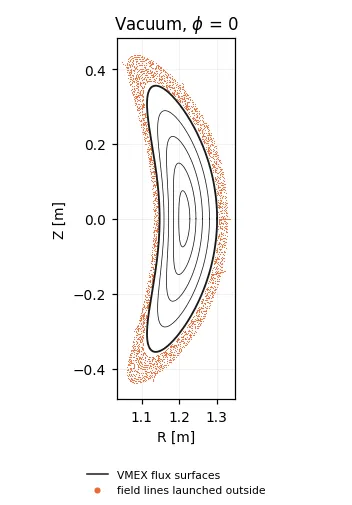
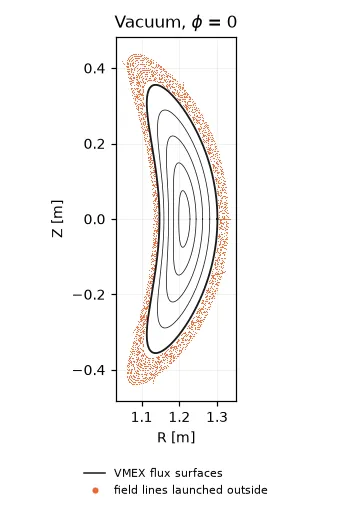
README extender figure: iota = 1/2 island chain outside a current-carrying QA (#505)
Adds a 1.02%-beta free-boundary Landreman-Paul QA case with a 4 kA net toroidal current (j ~ 1 - s), which lifts the edge iota to 0.514. The extended field (coils plus VmecExtender virtual casing) shows the iota = 1/2 island chain just outside the LCFS, about 0.9 cm wide, closed surfaces to 2.9 cm, and open lines beyond. README figure, guide caption and table, provenance updated; drawn twice with identical bytes.

diff --git a/docs/_static/figures/sources/make_extender_islands_figure.py b/docs/_static/figures/sources/make_extender_islands_figure.py
@@ -5,8 +5,10 @@ Everything comes from VMEX and the inputs shipped in ``examples/data``: the
 Landreman-Paul QA deck (``input.LandremanPaul2021_QA_lowres``) held by its
 ESSOS coils (``ESSOS_biot_savart_LandremanPaulQA.json``), solved as a free
 boundary at fixed coil currents with ``p = PRES_SCALE (1 - s)``, as in
-``examples/free_boundary_essos_coils.py``. Three cases: vacuum and two finite
-pressures.
+``examples/free_boundary_essos_coils.py``. Four cases: vacuum, two finite
+pressures, and the 1% pressure with a 4 kA net toroidal current (``CURTOR``,
+``j ~ 1 - s``), which lifts the edge iota to 0.514 and so places the iota = 1/2
+island chain just outside the LCFS.
 
 The field outside the plasma is the coil Biot-Savart field plus the
 ``VmecExtender`` virtual-casing field of the plasma currents. The plasma part
@@ -40,7 +42,9 @@ REPO = Path(__file__).resolve().parents[4]
 DATA = REPO / "examples" / "data"
 RECORD = REPO / "benchmarks" / "extender_islands_sections.npz"
 FIGURES = REPO / "docs" / "_static" / "figures"
-CASES = {"vacuum": 0.0, "beta1": 1.0 / 1.45e-3, "beta2": 2.0 / 1.45e-3}   # PRES_SCALE [Pa]
+CURTOR = 4000.0   # net toroidal current [A] with j ~ 1 - s: lifts the edge iota above 1/2
+CASES = {"vacuum": (0.0, 0.0), "beta1": (1.0 / 1.45e-3, 0.0), "beta2": (2.0 / 1.45e-3, 0.0),
+         "current": (1.0 / 1.45e-3, CURTOR)}   # (PRES_SCALE [Pa], CURTOR [A])
 MPOL, NTOR, NS, PHIEDGE = 5, 5, 51, -0.025
 COIL_GRID = dict(rmin=0.45, rmax=1.55, zmin=-0.6, zmax=0.6, ir=96, jz=96, kp=32)
 N_OUTSIDE, OUTSIDE_SPAN = 24, 0.045                # seeds between 4 mm and this far [m] past the LCFS
@@ -50,7 +54,7 @@ SURFACE_GAP = 0.003                                # table nodes closer to the L
 SURFACES = (0.04, 0.16, 0.36, 0.64, 1.0)
 
 
-def solve(pres_scale: float):
+def solve(pres_scale: float, curtor: float = 0.0):
     """Free-boundary LP-QA at fixed coil currents; returns (input, result, wout, coils)."""
     from dataclasses import replace
 
@@ -67,7 +71,8 @@ def solve(pres_scale: float):
         raxis_c=inp.raxis_c[:NTOR + 1], zaxis_s=inp.zaxis_s[:NTOR + 1],
         raxis_s=inp.raxis_s[:NTOR + 1], zaxis_c=inp.zaxis_c[:NTOR + 1],
         phiedge=PHIEDGE, ns_array=[NS], niter_array=[20000], ftol_array=[1e-12],
-        pmass_type="power_series", am=[1.0, -1.0] + [0.0] * 19, pres_scale=pres_scale)
+        pmass_type="power_series", am=[1.0, -1.0] + [0.0] * 19, pres_scale=pres_scale,
+        ncurr=1, pcurr_type="power_series", ac=[1.0, -1.0] + [0.0] * 19, curtor=curtor)
     res = vj.solve_free_boundary(inp, external_field=vj.MgridField.from_coils(coils, **COIL_GRID))
     wout = vj.wout_from_state(inp=inp, state=res.state, fsqr=float(res.fsqr), fsqz=float(res.fsqz),
                               fsql=float(res.fsql), niter=int(res.iterations),
@@ -101,7 +106,7 @@ def record_case(name: str) -> dict:
     from essos.surfaces import SurfaceClassifier, surfacerzfourier_from_boundary
 
     jax.config.update("jax_enable_x64", True)
-    inp, res, wout, coil_set = solve(CASES[name])
+    inp, res, wout, coil_set = solve(*CASES[name])
     print(f"{name}: beta {float(wout.betatotal):.4%}, converged {bool(res.converged)}, "
           f"fsq {float(res.fsqr) + float(res.fsqz) + float(res.fsql):.1e}", flush=True)
     coils = BiotSavart(coil_set)
@@ -112,7 +117,7 @@ def record_case(name: str) -> dict:
     R_lcfs, Z_lcfs = np.hypot(gamma[..., 0], gamma[..., 1]), gamma[..., 2]
     classifier = SurfaceClassifier(lcfs, h=0.02, padding=GRID_MARGIN + 0.05)
 
-    if CASES[name] > 0:  # finite beta: coils + tabulated plasma-current field
+    if CASES[name][0] > 0:  # finite beta: coils + tabulated plasma-current field
         ext = vj.VmecExtender.from_state(inp, res.state, external_field=coil_B)
 
         def distance(xyz: np.ndarray) -> np.ndarray:  # signed distance to the LCFS, positive inside
@@ -191,6 +196,7 @@ def record_case(name: str) -> dict:
     ns = np.asarray(wout.rmnc).shape[0]
     cuts = [surface_rz(wout, s_index=int(round(s * (ns - 1))), theta=theta, phi=np.array([0.0])) for s in SURFACES]
     out = {f"{name}_beta": float(wout.betatotal), f"{name}_offsets": offsets,
+           f"{name}_iota": np.asarray(wout.iotaf, np.float32),
            f"{name}_counts": np.array([len(sec[0]) for sec in sections]),
            f"{name}_R": np.concatenate([np.asarray(sec[0]) for sec in sections]).astype(np.float32),
            f"{name}_Z": np.concatenate([np.asarray(sec[1]) for sec in sections]).astype(np.float32),
@@ -200,31 +206,62 @@ def record_case(name: str) -> dict:
     return out
 
 
-def panel(ax, d, name: str, title: str) -> None:
+ISLAND, OTHER = "#2a78b8", "#eb6834"
+
+
+def lines(d, name: str):
+    """Per launched line that stays for 5 or more transits: (R, Z, on an island)."""
     counts, R, Z = d[f"{name}_counts"], d[f"{name}_R"], d[f"{name}_Z"]
     start = np.concatenate(([0], np.cumsum(counts)))
+    lcfs = np.stack((d[f"{name}_surf_R"][-1], d[f"{name}_surf_Z"][-1]), 1)
     for i in np.flatnonzero(counts >= 5):  # a line that leaves within a few transits marks only its seed
-        ax.scatter(R[start[i]:start[i + 1]], Z[start[i]:start[i + 1]], s=0.5, color="#eb6834", lw=0)
+        r, z = R[start[i]:start[i + 1]], Z[start[i]:start[i + 1]]
+        angle = np.hypot(r[:, None] - lcfs[:, 0], z[:, None] - lcfs[:, 1]).argmin(1) / len(lcfs)
+        # a surface covers every poloidal angle; a line on an island chain skips most of them
+        island = np.count_nonzero(np.histogram(angle, bins=40, range=(0, 1))[0]) < 30
+        yield r, z, island
+
+
+def panel(ax, d, name: str, title: str, mark_islands: bool = False) -> None:
+    for r, z, island in lines(d, name):
+        ax.scatter(r, z, s=0.5, color=ISLAND if island and mark_islands else OTHER, lw=0)
     for i, (r, z) in enumerate(zip(d[f"{name}_surf_R"], d[f"{name}_surf_Z"])):
         ax.plot(r, z, color="#1b1b1b", lw=0.5 + 0.7 * (i == len(SURFACES) - 1))
     ax.set(aspect="equal", xlabel="R [m]", ylabel="Z [m]", title=title)
     ax.grid(alpha=0.2, lw=0.5)
 
 
+def unrolled(ax, d, name: str) -> None:
+    """The same crossings against poloidal position on the LCFS and distance outside it."""
+    lcfs = np.stack((d[f"{name}_surf_R"][-1], d[f"{name}_surf_Z"][-1]), 1)
+    for r, z, island in lines(d, name):
+        distance = np.hypot(r[:, None] - lcfs[:, 0], z[:, None] - lcfs[:, 1])
+        ax.scatter(distance.argmin(1) / len(lcfs), 100 * distance.min(1), s=1.0,
+                   color=ISLAND if island else OTHER, lw=0)
+    ax.set(xlim=(0, 1), ylim=(0, 3.5), xlabel="poloidal position on the LCFS / 2$\\pi$",
+           ylabel="distance outside the LCFS [cm]", title="unrolled")
+    ax.grid(alpha=0.2, lw=0.5)
+
+
 HANDLES = [plt.Line2D([], [], color="#1b1b1b", lw=1, label="VMEX flux surfaces"),
-           plt.Line2D([], [], color="#eb6834", marker="o", ls="", ms=3, label="field lines launched outside")]
+           plt.Line2D([], [], color=OTHER, marker="o", ls="", ms=3, label="field lines launched outside")]
 
 
 def draw(d) -> None:
     plt.rcParams.update({"font.size": 9})
-    fig, axes = plt.subplots(1, 2, figsize=(5.6, 4.6), sharey=True)
-    for ax, name in zip(axes, ("beta1", "beta2")):
-        panel(ax, d, name, f"$\\beta$ = {100 * float(d[name + '_beta']):.2f}%")
+    fig, axes = plt.subplots(1, 3, figsize=(8.4, 4.6), width_ratios=(1, 1, 1.5))
+    panel(axes[0], d, "beta1", f"$\\beta$ = {100 * float(d['beta1_beta']):.2f}%")
+    panel(axes[1], d, "current", f"$\\beta$ = {100 * float(d['current_beta']):.2f}%, "
+          f"{CURTOR / 1e3:g} kA", mark_islands=True)
+    axes[1].sharey(axes[0])
     axes[1].set_ylabel("")
+    unrolled(axes[2], d, "current")
     fig.suptitle("Free-boundary QA with its coils, $\\phi$ = 0", fontsize=10)
-    fig.legend(handles=HANDLES, loc="lower center", ncol=2, fontsize=7.5, frameon=False)
+    fig.legend(handles=HANDLES + [plt.Line2D([], [], color=ISLAND, marker="o", ls="", ms=3,
+                                             label="lines on the $\\iota$ = 1/2 island chain")],
+               loc="lower center", ncol=3, fontsize=7.5, frameon=False)
     fig.tight_layout(rect=(0, 0.05, 1, 1))
-    fig.savefig(FIGURES / "readme_extender_islands.webp", dpi=110, pil_kwargs={"quality": 80, "method": 6})
+    fig.savefig(FIGURES / "readme_extender_islands.webp", dpi=100, pil_kwargs={"quality": 60, "method": 6})
     plt.close(fig)
     fig, ax = plt.subplots(figsize=(3.2, 4.6))
     panel(ax, d, "vacuum", "Vacuum, $\\phi$ = 0")

diff --git a/docs/howto/use-essos-fields-and-coils.md b/docs/howto/use-essos-fields-and-coils.md
@@ -117,14 +117,17 @@ tabulated domain. The exterior field-line example
 field; a finite trace does not by itself establish magnetic topology. See
 {doc}`/explanation/nestor-vacuum` for the derivation.
 
-![Poincare sections of the extended field around finite-beta free-boundary QA equilibria](../_static/figures/readme_extender_islands.webp)
+![Poincare sections of the extended field around finite-beta free-boundary QA equilibria, one with an iota = 1/2 island chain](../_static/figures/readme_extender_islands.webp)
 
 The README figure is built by VMEX alone from inputs in `examples/data`.
 `python docs/_static/figures/sources/make_extender_islands_figure.py --record`
 solves `input.LandremanPaul2021_QA_lowres` as a free boundary held by
 `ESSOS_biot_savart_LandremanPaulQA.json` at fixed coil currents, with
 `p = PRES_SCALE (1 - s)` as in `examples/free_boundary_essos_coils.py`, at
-volume-averaged beta 0, 1.02% and 2.18%. Outside the plasma the field is the
+volume-averaged beta 0, 1.02% and 2.18%, and at 1.02% with a 4 kA net toroidal
+current (`CURTOR`, current density proportional to `1 - s`). The current lifts
+iota from 0.410 to 0.514 at the edge (0.617 on axis), so the iota = 1/2 surface
+of the exterior field falls just outside the LCFS. Outside the plasma the field is the
 coil Biot-Savart field plus the `VmecExtender` virtual-casing field of the
 plasma currents. The plasma part is tabulated once on a 1 cm cylindrical grid
 (half a field period, completed by stellarator symmetry) and read through a
@@ -143,11 +146,23 @@ flux surfaces; the script without `--record` draws both figures from it.
 | vacuum | 0 | to 2.7 cm | 2.9 cm |
 | finite beta | 1.02% | to 3.1 cm | 3.3 cm |
 | finite beta | 2.18% | to 1.5 cm | 1.6 cm |
+| finite beta, 4 kA | 1.02% | island chain to 1.1 cm, surfaces to 2.9 cm | 3.1 cm |
+
+With the current, the lines launched 4 to 11 mm outside the LCFS stay on the
+iota = 1/2 chain: each alternates between the lobes on the outboard and inboard
+midplane (poloidal positions 0 and 1/2 in the unrolled panel), and on the
+inboard side spans 0.03 to 0.93 cm off the LCFS. With two field periods,
+iota = 1/2 is resonant with the (m, n) = (4, 2) harmonic, a chain of four
+islands; a line visits every other one, and the two not on the midplane launch
+line are not seeded. Closed surfaces enclose the chain from 1.3 cm; the
+separatrix lies between the seeds at 1.1 and 1.3 cm.
 
 "Closed" means the line crossed phi = 0 on every transit of the 1500 m trace
 without leaving the 10 cm neighbourhood of the LCFS; a finite trace does not by
 itself prove a flux surface. Near the LCFS the tabulated field inherits the
-continuation's error, so the first centimetre of each layer is qualitative.
+continuation's error, so the first centimetre of each layer is qualitative:
+that includes the width of the island chain, although the chain itself follows
+from the edge iota of the VMEX solution crossing 1/2.
 The zero-beta extended field equals the coil field and is traced directly.
 
 Joint boundary/coil optimization and the boundary-Schur adjoint remain advanced

diff --git a/README.md b/README.md
@@ -389,12 +389,14 @@ external_field=coils.B)` adds the plasma's virtual-casing field to the coils, ac
 down to 0.01 minor radii. Coil and MGRID fields enter free-boundary solves as `MgridField`
 (trilinear or tricubic).
 
-![Poincare sections of the extended field around finite-beta free-boundary QA equilibria](docs/_static/figures/readme_extender_islands.webp)
+![Poincare sections of the extended field around finite-beta free-boundary QA equilibria, one with an iota = 1/2 island chain](docs/_static/figures/readme_extender_islands.webp)
 
-The Landreman-Paul QA held by its coils as a free boundary at 1.0% and 2.2% beta, and the field
-lines of the extended field (coils plus the plasma's virtual-casing field) launched outside it.
-Closed surfaces continue 3.1 cm past the LCFS at 1.0% beta and 1.5 cm at 2.2% beta, against 2.7 cm
-in vacuum; beyond them the lines open. The figure is built by VMEX from `examples/data` alone
+The Landreman-Paul QA held by its coils as a free boundary at 1.0% beta, and the field lines of
+the extended field (coils plus the plasma's virtual-casing field) launched outside it. Without net
+current (left) closed surfaces continue 3.1 cm past the LCFS, then the lines open. A 4 kA toroidal
+current (middle, and unrolled on the right) lifts the edge iota to 0.514, so iota = 1/2 falls just
+outside the plasma: an island chain about 0.9 cm wide opens from the LCFS, closed surfaces
+surround it to 2.9 cm, and the lines open beyond. The figure is built by VMEX from `examples/data` alone
 (`docs/_static/figures/sources/make_extender_islands_figure.py`). The vacuum case and the method
 are in the [fields and coils guide](https://vmex.readthedocs.io/en/latest/howto/use-essos-fields-and-coils.html).
 
